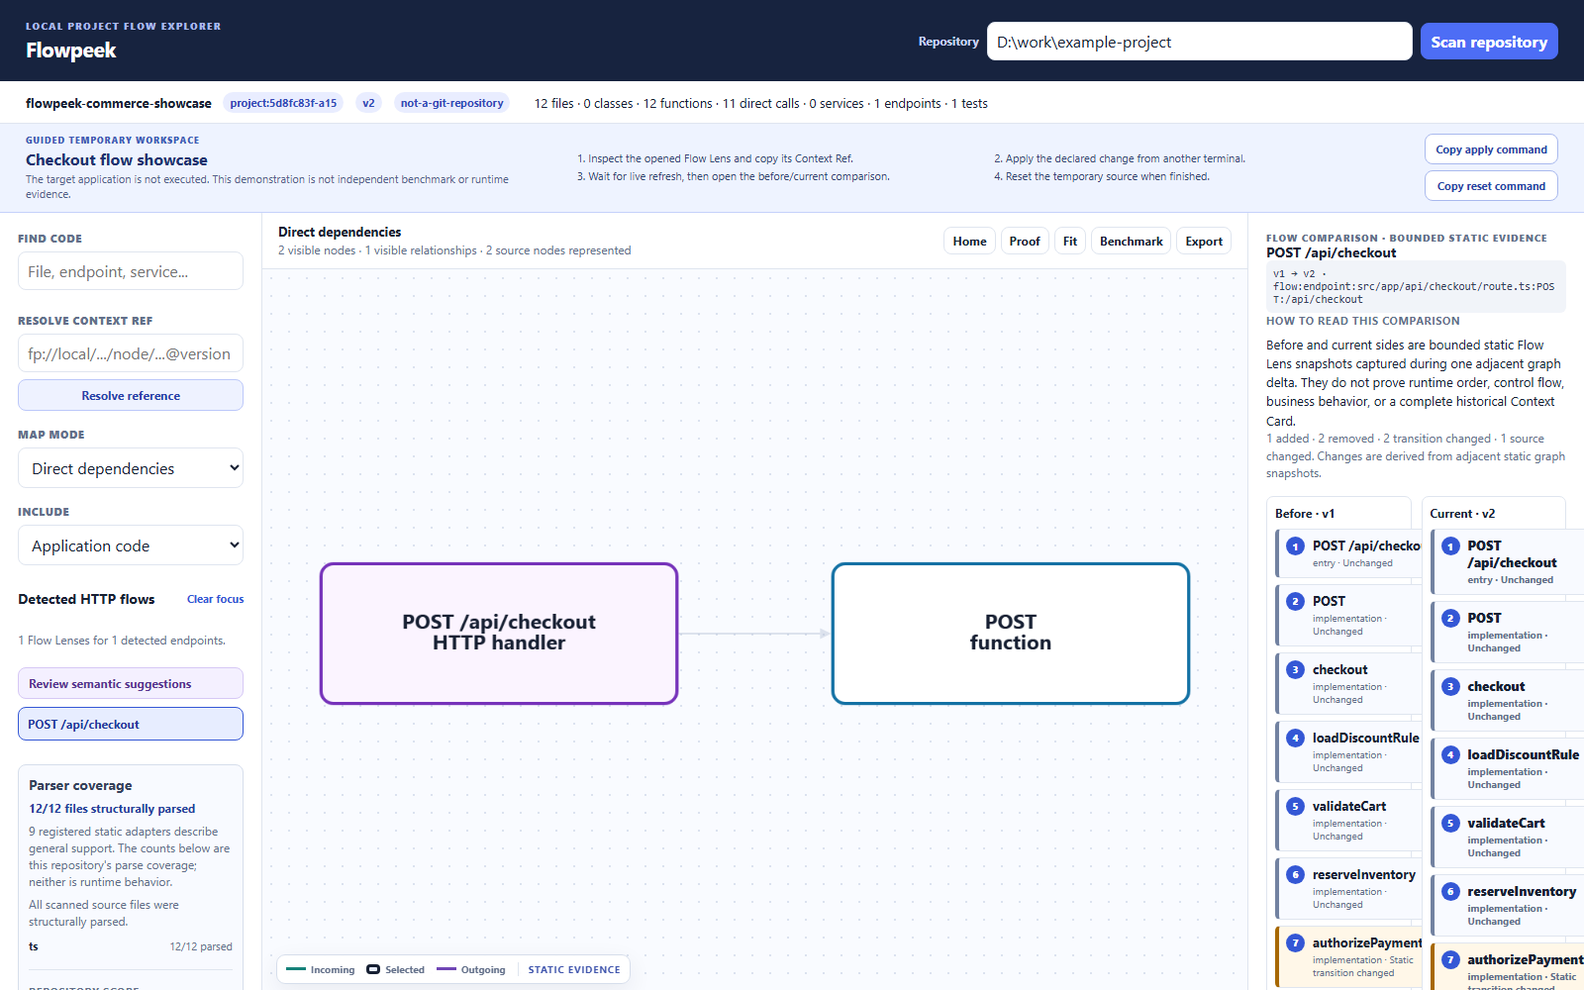
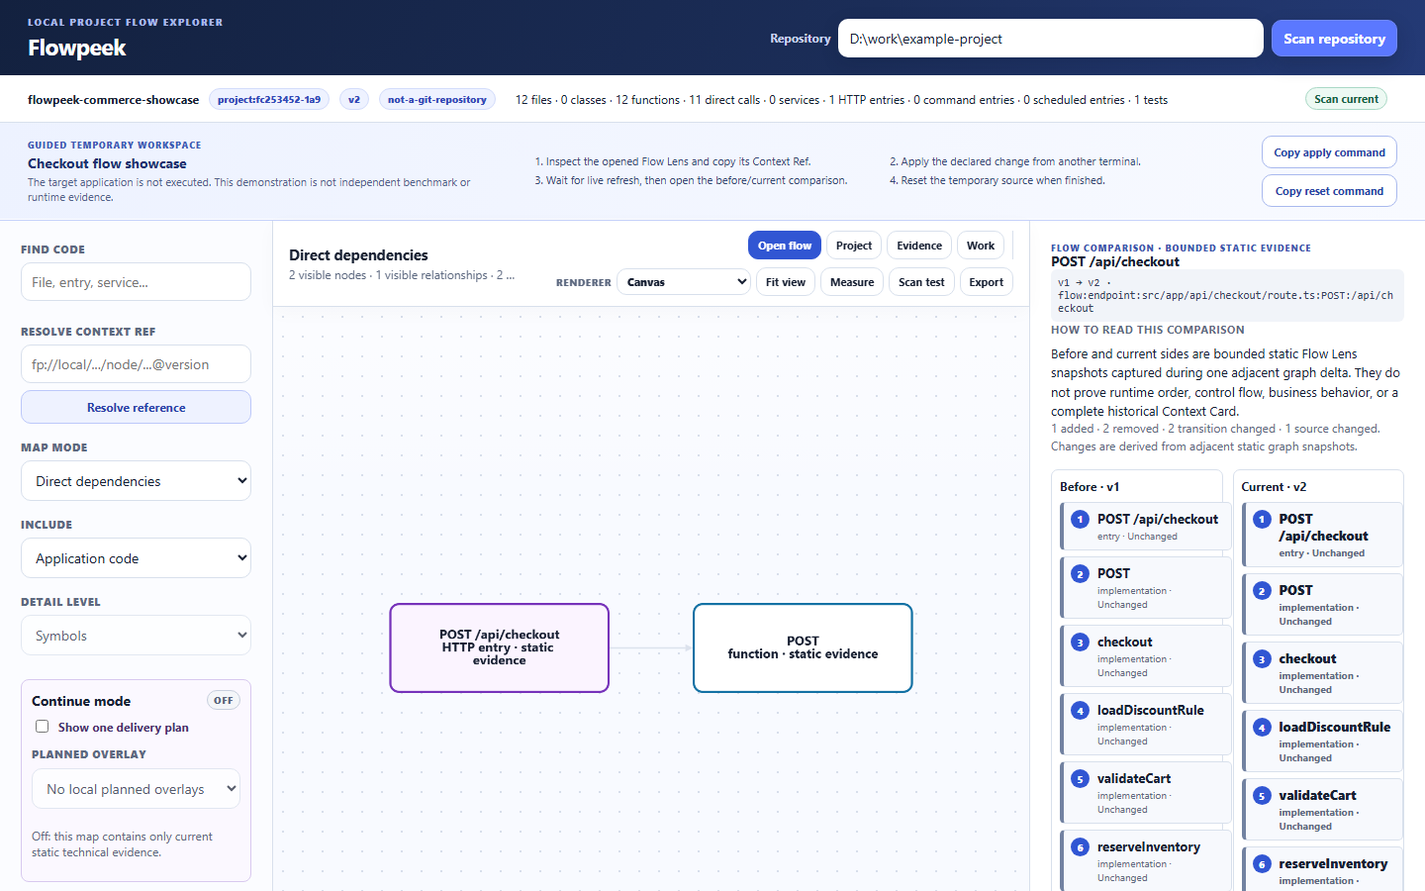
docs(viewer): refresh public product tour

diff --git a/public/styles.css b/public/styles.css
@@ -1,25 +1,28 @@
 :root {
-  --bg: #f5f7fb; --surface: #ffffff; --surface-strong: #f8faff; --line: #dfe5ef; --text: #172033; --muted: #63708a;
-  --accent: #3457d5; --endpoint: #7632ba;
+  --bg: #f2f5fa; --surface: #ffffff; --surface-strong: #f7f9fd; --line: #d8e0ec; --text: #172033; --muted: #5d6980;
+  --accent: #3156d3; --accent-strong: #2444b8; --endpoint: #7632ba; --shadow: 0 12px 32px #17233f12;
   font-family: Inter, ui-sans-serif, system-ui, -apple-system, BlinkMacSystemFont, "Segoe UI", sans-serif;
 }
 * { box-sizing: border-box; }
-body { margin: 0; background: var(--bg); color: var(--text); min-width: 0; }
+body { margin: 0; background: var(--bg); color: var(--text); min-width: 0; font-size: 14px; }
 button, input, select, textarea { font: inherit; }
-button { cursor: pointer; border: 1px solid var(--line); border-radius: 8px; background: var(--surface); color: var(--text); padding: 7px 10px; font-weight: 650; }
-button:hover { border-color: var(--accent); color: var(--accent); }
-input, select, textarea { width: 100%; border: 1px solid var(--line); background: var(--surface); border-radius: 8px; padding: 8px 9px; color: var(--text); }
+button { cursor: pointer; border: 1px solid var(--line); border-radius: 10px; background: var(--surface); color: var(--text); padding: 8px 11px; font-weight: 700; transition: background-color .16s ease, border-color .16s ease, color .16s ease, box-shadow .16s ease, transform .16s ease; }
+button:hover { border-color: #aebdf2; background: #f1f4ff; color: var(--accent-strong); box-shadow: 0 5px 14px #17233f12; }
+button:active { transform: translateY(1px); }
+button:focus-visible, input:focus-visible, select:focus-visible, textarea:focus-visible { outline: 3px solid #cfd9ff; outline-offset: 2px; }
+input, select, textarea { width: 100%; border: 1px solid var(--line); background: var(--surface); border-radius: 10px; padding: 9px 10px; color: var(--text); }
 input:focus, select:focus, textarea:focus { outline: 3px solid #dce4ff; border-color: var(--accent); }
-.app-header { min-height: 82px; display: flex; align-items: center; justify-content: space-between; gap: 32px; padding: 14px 26px; background: #17233f; color: #fff; }
-.app-header h1 { margin: 0; font-size: 21px; letter-spacing: -.4px; }
+.app-header { min-height: 76px; display: flex; align-items: center; justify-content: space-between; gap: 32px; padding: 13px 28px; background: linear-gradient(118deg, #13213f 0%, #1b2d58 60%, #243a76 100%); color: #fff; box-shadow: 0 8px 24px #10203a24; }
+.app-header h1 { margin: 0; font-size: 23px; letter-spacing: -.55px; }
 .eyebrow { margin: 0 0 2px; color: #a9b9e9; font-size: 10px; letter-spacing: .12em; font-weight: 800; }
 .scan-form { display: grid; grid-template-columns: auto minmax(250px, 430px) auto; align-items: center; gap: 8px; }
 .scan-form label { color: #c8d3f3; font-size: 12px; font-weight: 700; }
-.scan-form input { background: #fff; }
-.scan-form button { background: #4d6df5; color: #fff; border-color: #4d6df5; white-space: nowrap; }
-.project-bar { height: 43px; padding: 0 26px; display: flex; flex-wrap: nowrap; align-items: center; gap: 12px; overflow-x: auto; white-space: nowrap; background: var(--surface); border-bottom: 1px solid var(--line); font-size: 13px; }
+.scan-form input { background: #fff; border-color: #ffffff99; box-shadow: 0 5px 18px #09152a29; }
+.scan-form button { background: #5b78ff; color: #fff; border-color: #7189ff; white-space: nowrap; box-shadow: 0 8px 20px #09152a33; }
+.scan-form button:hover { background: #6d87ff; color: #fff; border-color: #91a2ff; }
+.project-bar { min-height: 48px; padding: 5px 28px; display: flex; flex-wrap: nowrap; align-items: center; gap: 10px; overflow-x: auto; white-space: nowrap; background: #fffffffa; border-bottom: 1px solid var(--line); box-shadow: 0 5px 18px #17233f08; font-size: 12px; }
 .project-bar > #project-name { font-weight: 760; }
-.showcase-guide { min-height: 82px; display: grid; grid-template-columns: minmax(260px, 1fr) minmax(420px, 1.6fr) auto; align-items: center; gap: 20px; padding: 10px 26px; border-bottom: 1px solid #c5d1fb; background: #eef3ff; color: #1f326f; }
+.showcase-guide { min-height: 94px; display: grid; grid-template-columns: minmax(280px, 1fr) minmax(420px, 1.5fr) auto; align-items: center; gap: 24px; padding: 13px 28px; border-bottom: 1px solid #c5d1fb; background: linear-gradient(105deg, #edf2ff, #f8faff); color: #1f326f; box-shadow: inset 0 -1px 0 #ffffff; }
 .showcase-guide[hidden] { display: none; }
 .showcase-guide p { margin: 0 0 3px; }
 .showcase-guide strong, .showcase-guide span { display: block; }
@@ -31,7 +34,7 @@ input:focus, select:focus, textarea:focus { outline: 3px solid #dce4ff; border-c
 .workspace-project-picker { display: flex; align-items: center; gap: 7px; padding-right: 11px; border-right: 1px solid var(--line); color: var(--muted); font-size: 11px; font-weight: 750; }
 .workspace-project-picker[hidden] { display: none; }
 .workspace-project-picker select { width: auto; max-width: 250px; padding: 5px 28px 5px 7px; font-size: 11px; }
-.badge { background: #e9edff; color: #344ab8; padding: 3px 7px; border-radius: 999px; font-size: 11px; font-weight: 700; }
+.badge { border: 1px solid #d3dcfb; background: #eef2ff; color: #344ab8; padding: 3px 8px; border-radius: 999px; font-size: 10px; font-weight: 800; }
 .scan-status-badge { margin-left: auto; border: 1px solid #cfd8e8; border-radius: 999px; padding: 3px 8px; background: #f2f5fa; color: #53617a; font-size: 11px; font-weight: 750; white-space: nowrap; }
 .scan-status-badge.current { border-color: #a9d8c5; background: #edf9f3; color: #176344; }
 .scan-status-badge.running { border-color: #b9c7f6; background: #eef2ff; color: #2945a5; }
@@ -40,11 +43,11 @@ input:focus, select:focus, textarea:focus { outline: 3px solid #dce4ff; border-c
 .cancel-scan { padding: 3px 7px; border-color: #e0b1b1; background: #fff3f3; color: #8a3434; font-size: 11px; }
 .muted { color: var(--muted); font-size: 12px; }
 .status { color: var(--muted); font-size: 12px; }
-.workspace { display: grid; grid-template-columns: 265px minmax(520px, 1fr) 340px; height: calc(100vh - 125px); min-height: 620px; }
-body.showcase-active .workspace { height: calc(100vh - 207px); min-height: 540px; }
-.sidebar, .inspector { overflow: auto; background: var(--surface); padding: 18px; }
+.workspace { display: grid; grid-template-columns: 276px minmax(500px, 1fr) 400px; height: calc(100vh - 124px); min-height: 620px; }
+body.showcase-active .workspace { height: calc(100vh - 218px); min-height: 540px; }
+.sidebar, .inspector { overflow: auto; background: #fbfcff; padding: 21px; scrollbar-color: #c5cee0 transparent; scrollbar-width: thin; }
 .sidebar { border-right: 1px solid var(--line); }
-.inspector { border-left: 1px solid var(--line); font-size: 13px; }
+.inspector { border-left: 1px solid var(--line); background: #fff; font-size: 13px; }
 .field-label { display: block; margin: 16px 0 6px; font-size: 11px; color: var(--muted); text-transform: uppercase; font-weight: 800; letter-spacing: .05em; }
 .field-label:first-child { margin-top: 0; }
 .search-results { display: grid; gap: 5px; margin-top: 7px; }
@@ -53,7 +56,7 @@ body.showcase-active .workspace { height: calc(100vh - 207px); min-height: 540px
 .search-result, .connection-button { width: 100%; display: flex; justify-content: space-between; gap: 7px; text-align: left; background: var(--surface-strong); font-size: 12px; padding: 6px 8px; }
 .search-result > :last-child, .connection-kind { color: var(--muted); font-size: 10px; text-transform: uppercase; white-space: nowrap; }
 .sidebar-section { margin-top: 24px; }
-.sidebar h2, .inspector h2 { margin: 0; font-size: 14px; }
+.sidebar h2, .inspector h2 { margin: 0; font-size: 14px; letter-spacing: -.1px; }
 .continue-controls { display: grid; gap: 7px; padding: 10px; border: 1px solid #d8c9ef; border-radius: 8px; background: #fbf8ff; }
 .continue-controls .field-label { margin: 4px 0 0; }
 .continue-toggle { display: flex; align-items: center; gap: 7px; color: #49306d; font-size: 12px; font-weight: 700; }
@@ -65,25 +68,30 @@ body.showcase-active .workspace { height: calc(100vh - 207px); min-height: 540px
 .heading-row { display: flex; justify-content: space-between; align-items: center; }
 .text-button { padding: 0; border: 0; color: var(--accent); font-size: 11px; }
 .flow-list { margin-top: 8px; display: grid; gap: 6px; }
-.flow-button { text-align: left; padding: 8px 9px; background: var(--surface-strong); font-size: 12px; overflow: hidden; text-overflow: ellipsis; white-space: nowrap; }
-.flow-button.selected-flow { background: #e7edff; border-color: #3457d5; color: #20399c; }
+.flow-button { min-height: 38px; text-align: left; padding: 9px 10px; background: var(--surface); font-size: 12px; overflow: hidden; text-overflow: ellipsis; white-space: nowrap; }
+.flow-button.selected-flow { background: #eaf0ff; border-color: #6e87e7; color: #20399c; box-shadow: inset 3px 0 0 var(--accent); }
 .empty-flow-state { border: 1px solid var(--line); border-radius: 8px; background: var(--surface-strong); padding: 10px; color: var(--muted); font-size: 12px; line-height: 1.45; }
 .empty-flow-state strong { color: var(--text); display: block; }
 .empty-flow-state p { margin: 6px 0 0; }
 .review-queue-button { width: 100%; margin-top: 8px; background: #f4f0ff; border-color: #d6c8f5; color: #563590; font-size: 12px; text-align: left; }
 .view-hint { border-top: 1px solid var(--line); padding-top: 15px; }
 .view-hint p { color: var(--muted); font-size: 12px; line-height: 1.45; margin: 8px 0 0; }
-.canvas-panel { min-width: 0; display: flex; flex-direction: column; }
-.canvas-toolbar { min-height: 57px; padding: 8px 16px; border-bottom: 1px solid var(--line); display: flex; align-items: center; justify-content: space-between; gap: 14px; background: var(--surface); font-size: 13px; }
+.canvas-panel { min-width: 0; display: flex; flex-direction: column; background: var(--surface); }
+.canvas-toolbar { min-height: 70px; padding: 10px 16px; border-bottom: 1px solid var(--line); display: flex; align-items: center; justify-content: space-between; gap: 18px; background: #fffffffa; box-shadow: 0 5px 18px #17233f08; font-size: 13px; z-index: 2; }
 .view-heading { min-width: 0; display: grid; gap: 2px; }
+.view-heading strong { font-size: 15px; letter-spacing: -.15px; }
 #graph-note { display: block; overflow: hidden; text-overflow: ellipsis; white-space: nowrap; }
-.toolbar-actions { display: flex; align-items: center; gap: 5px; }
-.toolbar-actions button { padding: 5px 8px; font-size: 12px; }
-.renderer-control { display: inline-flex; align-items: center; gap: 4px; color: var(--muted); font-size: 11px; font-weight: 700; }
+.toolbar-actions { display: flex; align-items: center; justify-content: flex-end; flex-wrap: wrap; gap: 8px; }
+.toolbar-primary, .toolbar-utilities { display: flex; align-items: center; gap: 5px; }
+.toolbar-primary { padding-right: 8px; border-right: 1px solid var(--line); }
+.toolbar-actions button { padding: 6px 9px; font-size: 11px; white-space: nowrap; }
+.toolbar-actions .toolbar-emphasis { border-color: var(--accent); background: var(--accent); color: #fff; }
+.toolbar-actions .toolbar-emphasis:hover { border-color: var(--accent-strong); background: var(--accent-strong); color: #fff; }
+.renderer-control { display: inline-flex; align-items: center; gap: 5px; color: var(--muted); font-size: 10px; font-weight: 800; text-transform: uppercase; letter-spacing: .04em; }
 .renderer-control select { width: auto; min-width: 82px; padding: 4px 22px 4px 6px; font-size: 11px; }
 .graph-stage { position: relative; flex: 1; min-height: 0; overflow: hidden; }
-#graph { width: 100%; height: 100%; min-height: 0; background-color: #f9fbff; background-image: radial-gradient(#dbe2ef 1px, transparent 1px); background-size: 18px 18px; }
-.map-key { position: absolute; left: 14px; bottom: 14px; display: flex; align-items: center; gap: 12px; padding: 7px 9px; border: 1px solid #d6deeb; border-radius: 9px; background: #ffffffee; box-shadow: 0 8px 24px #17233f12; color: var(--muted); font-size: 10px; font-weight: 700; pointer-events: none; }
+#graph { width: 100%; height: 100%; min-height: 0; background-color: #f8faff; background-image: radial-gradient(#d7deeb 1px, transparent 1px), linear-gradient(180deg, #ffffff88, transparent 28%); background-size: 20px 20px, 100% 100%; }
+.map-key { position: absolute; left: 18px; bottom: 18px; display: flex; align-items: center; gap: 11px; padding: 8px 10px; border: 1px solid #d6deeb; border-radius: 11px; background: #ffffffee; box-shadow: var(--shadow); color: var(--muted); font-size: 9px; font-weight: 750; pointer-events: none; backdrop-filter: blur(8px); }
 .map-key span { display: inline-flex; align-items: center; gap: 5px; white-space: nowrap; }
 .key-line { width: 20px; height: 0; border-top: 3px solid; }
 .key-line.incoming { border-color: #16827a; }
@@ -97,10 +105,10 @@ body.showcase-active .workspace { height: calc(100vh - 207px); min-height: 540px
 .map-key .map-boundary { padding-left: 10px; border-left: 1px solid var(--line); color: #4056ad; letter-spacing: .07em; }
 .empty-canvas { height: 100%; min-height: 360px; display: grid; place-content: center; gap: 8px; padding: 30px; text-align: center; color: var(--muted); }
 .empty-canvas strong { color: var(--text); }
-.node-kicker { color: var(--muted); text-transform: uppercase; letter-spacing: .08em; font-size: 10px; font-weight: 800; }
-.node-title { margin: 5px 0 12px; font-size: 20px; line-height: 1.15; }
+.node-kicker { color: #4056ad; text-transform: uppercase; letter-spacing: .1em; font-size: 9px; font-weight: 850; }
+.node-title { margin: 6px 0 14px; font-size: 22px; line-height: 1.15; letter-spacing: -.45px; }
 .node-path { font-family: ui-monospace, SFMono-Regular, Menlo, Consolas, monospace; font-size: 11px; padding: 7px; color: #34415a; background: #f1f4f9; overflow-wrap: anywhere; border-radius: 6px; }
-.detail-section { border-top: 1px solid var(--line); margin-top: 16px; padding-top: 14px; }
+.detail-section { border-top: 1px solid var(--line); margin-top: 18px; padding-top: 16px; }
 .first-section { border-top: 0; margin-top: 0; padding-top: 0; }
 .detail-section h3 { font-size: 11px; color: var(--muted); text-transform: uppercase; letter-spacing: .05em; margin: 0 0 7px; }
 .detail-section p { margin: 0; line-height: 1.48; }
@@ -118,8 +126,8 @@ body.showcase-active .workspace { height: calc(100vh - 207px); min-height: 540px
 .reconciliation-record { display: grid; gap: 2px; padding: 8px; border: 1px solid #d8ddeb; border-left: 4px solid #7956b2; border-radius: 7px; background: #fbfaff; }
 .reconciliation-record strong { font-size: 11px; text-transform: uppercase; letter-spacing: .04em; }
 .reconciliation-record span, .reconciliation-record small { color: var(--muted); font-size: 10px; line-height: 1.35; overflow-wrap: anywhere; }
-.flow-lens-steps { display: grid; gap: 7px; }
-.flow-lens-step { width: 100%; display: flex; align-items: flex-start; gap: 8px; text-align: left; padding: 8px; background: var(--surface-strong); }
+.flow-lens-steps { display: grid; gap: 8px; }
+.flow-lens-step { width: 100%; display: flex; align-items: flex-start; gap: 9px; text-align: left; padding: 10px; background: var(--surface-strong); }
 .flow-lens-step.changed-step { border: 2px solid #a35500; background: #fff7e8; }
 .flow-lens-step strong, .flow-lens-step small { display: block; }
 .flow-lens-step em { display: inline-block; margin-left: 5px; color: #7a4000; font-size: 10px; font-style: normal; text-transform: uppercase; letter-spacing: .04em; }
@@ -177,7 +185,7 @@ textarea { min-height: 98px; resize: vertical; line-height: 1.4; }
 .review-evidence { display: flex; flex-wrap: wrap; gap: 6px; }
 .review-evidence button { padding: 5px 7px; font-size: 11px; }
 .trace-history { border-left: 3px solid #4a6b8a; }
-.flow-understanding { margin: 16px 0; padding: 14px; border: 1px solid #bfccfa; border-left: 4px solid var(--accent); border-radius: 9px; background: linear-gradient(135deg, #f4f7ff, #fff); }
+.flow-understanding { margin: 18px 0; padding: 16px; border: 1px solid #bfccfa; border-left: 4px solid var(--accent); border-radius: 12px; background: linear-gradient(135deg, #f1f5ff, #fff); box-shadow: 0 10px 26px #3457d50c; }
 .flow-understanding.abstained { border-color: #ead0a3; border-left-color: #a76800; background: linear-gradient(135deg, #fff9ee, #fff); }
 .section-kicker { color: #4056ad; font-size: 10px; font-weight: 800; letter-spacing: .09em; text-transform: uppercase; }
 .flow-understanding h3 { margin: 5px 0 7px; font-size: 18px; line-height: 1.2; }
@@ -239,7 +247,7 @@ textarea { min-height: 98px; resize: vertical; line-height: 1.4; }
 .coverage-summary h2 { color: #34415a; }
 .coverage-summary p { color: var(--muted); font-size: 12px; line-height: 1.42; margin: 6px 0 0; }
 .coverage-summary .coverage-count { color: #253f9b; font-weight: 750; }
-.home-card { margin-top: 12px; padding: 10px; border: 1px solid #d8e0ec; border-radius: 8px; background: #fbfcff; }
+.home-card { margin-top: 12px; padding: 12px; border: 1px solid #d8e0ec; border-radius: 10px; background: #fbfcff; }
 .home-card h3 { margin: 0 0 6px; font-size: 12px; }
 .home-card p { margin: 5px 0; line-height: 1.45; }
 .proof-boundary { margin-top: 10px; padding: 10px; border: 1px solid #d9b36c; border-radius: 8px; background: #fff9ed; }
@@ -284,6 +292,9 @@ textarea { min-height: 98px; resize: vertical; line-height: 1.4; }
   .scan-form { width: 100%; grid-template-columns: auto minmax(180px, 1fr) auto; }
   .workspace { grid-template-columns: 220px minmax(380px, 1fr) 290px; }
   .toolbar-actions { flex-wrap: wrap; justify-content: flex-end; }
+  .toolbar-primary { padding-right: 0; border-right: 0; }
+  .showcase-guide { grid-template-columns: minmax(260px, 1fr) auto; }
+  .showcase-guide ol { grid-column: 1 / -1; grid-row: 2; }
   .map-key { max-width: calc(100% - 28px); flex-wrap: wrap; }
 }
 @media (max-width: 900px) {
@@ -291,11 +302,16 @@ textarea { min-height: 98px; resize: vertical; line-height: 1.4; }
   .scan-form { grid-template-columns: 1fr; }
   .scan-form label { grid-column: auto; }
   .scan-form button { width: 100%; }
+  .showcase-guide { grid-template-columns: 1fr; padding: 16px; }
+  .showcase-guide ol { grid-column: auto; grid-row: auto; grid-template-columns: 1fr; }
+  .showcase-actions { grid-template-columns: repeat(2, minmax(0, 1fr)); }
+  .showcase-actions button { white-space: normal; }
   .workspace { grid-template-columns: 1fr; grid-template-rows: auto minmax(460px, 70vh) auto; height: auto; min-height: 0; }
   .sidebar { border-right: 0; border-bottom: 1px solid var(--line); }
   .inspector { border-left: 0; border-top: 1px solid var(--line); }
   .canvas-toolbar { align-items: flex-start; flex-direction: column; }
   .toolbar-actions { justify-content: flex-start; }
+  .toolbar-primary, .toolbar-utilities { flex-wrap: wrap; }
   .map-key { position: static; margin: 10px; width: max-content; }
   .graph-stage { display: flex; flex-direction: column; }
   #graph { min-height: 440px; }

diff --git a/public/index.html b/public/index.html
@@ -105,15 +105,19 @@
         <div class="canvas-toolbar">
           <div class="view-heading"><strong id="view-title">Feature overview</strong><span id="graph-note" class="muted"></span></div>
           <div class="toolbar-actions">
-            <button id="open-primary-flow" title="Open the first supported static Flow Lens">Flow</button>
-            <button id="open-project-home" title="Open the evidence-backed project orientation page">Home</button>
-            <button id="open-product-proof" title="Open checked product evidence and boundaries">Proof</button>
-            <button id="open-delivery-ledger" title="Open local planned work and append-only delivery evidence">Work</button>
-            <label class="renderer-control" title="Canvas is the supported default. WebGL is an experimental dense-map preview.">Renderer <select id="renderer-mode" aria-label="Graph renderer"><option value="canvas">Canvas</option><option value="webgl">WebGL preview</option></select></label>
-            <button id="fit-graph" title="Fit the current bounded map in the canvas">Fit</button>
-            <button id="measure-renderer" title="Measure this bounded map locally in Canvas and WebGL preview">Measure renderer</button>
-            <button id="run-benchmark" title="Run a local full-versus-incremental scan comparison">Benchmark</button>
-            <button id="export-mermaid" title="Copy the current bounded map as Mermaid">Export</button>
+            <div class="toolbar-primary" aria-label="Primary views">
+              <button id="open-primary-flow" class="toolbar-emphasis" title="Open the first supported static Flow Lens">Open flow</button>
+              <button id="open-project-home" title="Open the evidence-backed project orientation page">Project</button>
+              <button id="open-product-proof" title="Open checked product evidence and boundaries">Evidence</button>
+              <button id="open-delivery-ledger" title="Open local planned work and append-only delivery evidence">Work</button>
+            </div>
+            <div class="toolbar-utilities" aria-label="Map tools">
+              <label class="renderer-control" title="Canvas is the supported default. WebGL is an experimental dense-map preview.">Renderer <select id="renderer-mode" aria-label="Graph renderer"><option value="canvas">Canvas</option><option value="webgl">WebGL preview</option></select></label>
+              <button id="fit-graph" title="Fit the current bounded map in the canvas">Fit view</button>
+              <button id="measure-renderer" title="Measure this bounded map locally in Canvas and WebGL preview">Measure</button>
+              <button id="run-benchmark" title="Run a local full-versus-incremental scan comparison">Scan test</button>
+              <button id="export-mermaid" title="Copy the current bounded map as Mermaid">Export</button>
+            </div>
           </div>
         </div>
         <div class="graph-stage">

diff --git a/public/app.js b/public/app.js
@@ -668,11 +668,11 @@ function viewRenderKey(view, continuation) {
 
 function focusRenderedView(cy, view, renderedNodeCount) {
   if (renderedNodeCount <= 20) {
-    cy.fit(undefined, 42);
+    cy.fit(undefined, 64);
     // A two-node projection otherwise expands to the renderer's maximum zoom,
     // turning a compact orientation map into two oversized cards. This limits
     // only the automatic fit; people can still zoom in deliberately.
-    cy.zoom(Math.min(cy.zoom(), 1.35));
+    cy.zoom(Math.min(cy.zoom(), 1.08));
     cy.center(cy.nodes());
     return;
   }
@@ -722,7 +722,7 @@ function renderGraph() {
     boxSelectionEnabled: false,
     renderer: state.renderer === "webgl" ? { name: "canvas", webgl: true } : { name: "canvas" },
     style: [
-      { selector: "node", style: { "background-color": "#ffffff", "border-width": 2, "border-color": "data(color)", "shape": "round-rectangle", "width": 208, "height": 72, "label": "data(label)", "color": "#172033", "font-family": "Inter, system-ui, sans-serif", "font-size": 13, "font-weight": 700, "text-wrap": "wrap", "text-max-width": 174, "text-valign": "center", "text-halign": "center", "padding": 8, "overlay-opacity": 0 } },
+      { selector: "node", style: { "background-color": "#ffffff", "border-width": 2, "border-color": "data(color)", "shape": "round-rectangle", "width": 188, "height": 66, "label": "data(label)", "color": "#172033", "font-family": "Inter, system-ui, sans-serif", "font-size": 12, "font-weight": 700, "text-wrap": "wrap", "text-max-width": 156, "text-valign": "center", "text-halign": "center", "padding": 8, "overlay-opacity": 0 } },
       { selector: "node[kind = 'summary']", style: { "background-color": "#f2f5ff", "border-color": "#3457d5", "border-style": "double", "border-width": 4 } },
       { selector: "node[analysisStatus = 'inventory-only']", style: { "border-style": "dotted", "border-width": 3, "background-color": "#f8fafc" } },
       { selector: "node[type = 'endpoint']", style: { "background-color": "#fbf4ff", "shape": "round-rectangle" } },
@@ -742,7 +742,7 @@ function renderGraph() {
       { selector: ".outgoing-edge", style: { "line-color": "#7046b5", "target-arrow-color": "#7046b5" } },
       { selector: ".dimmed", style: { "opacity": 0.09, "text-opacity": 0 } },
     ],
-    layout: { name: "dagre", rankDir: "LR", rankSep: 96, nodeSep: 52, edgeSep: 22, padding: 56, animate: false, fit: false },
+    layout: { name: "dagre", rankDir: "LR", rankSep: 78, nodeSep: 44, edgeSep: 20, padding: 52, animate: false, fit: false },
   };
   const recreate = !state.cy || state.cyRenderer !== state.renderer;
   const viewChanged = state.renderViewKey !== null && state.renderViewKey !== nextRenderViewKey;
@@ -866,7 +866,7 @@ async function measureRendererPair() {
     return summary;
   } finally {
     button.disabled = false;
-    button.textContent = "Measure renderer";
+    button.textContent = "Measure";
   }
 }
 

diff --git a/test/unit/viewer-live-renderer.test.js b/test/unit/viewer-live-renderer.test.js
@@ -54,6 +54,6 @@ test("a changed compact projection receives a bounded automatic fit instead of i
     getElementById: () => ({ length: 0 }),
   };
   focusRenderedView(cy, { focusId: null }, 2);
-  assert.deepEqual(calls, ["fit", "zoom:1.35", "center"]);
-  assert.equal(cy.zoomValue, 1.35);
+  assert.deepEqual(calls, ["fit", "zoom:1.08", "center"]);
+  assert.equal(cy.zoomValue, 1.08);
 });
